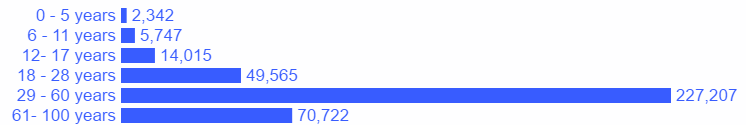
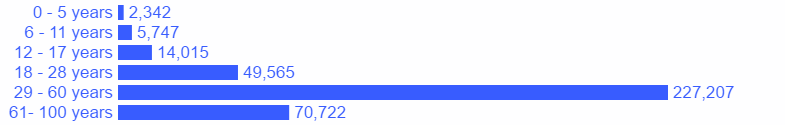
updated more accurate bars for each of the charts

Changed region(s): [[0.0, 0.048, 0.9866, 0.984]]

diff --git a/index.html b/index.html
@@ -31,7 +31,7 @@
       <div class="intro">
       <h1><b>Number of Threats, Kidnappings, and Homicides in Colombia (1984-2015)</b></h1>
       <p>The following graphs show data for three different types of crimes commited in Colombia from 1984-2015, and shows the total amount for each gender in the data set: female, male, and LGBTI. They are charts are grouped thematically and separted by gender to comparison.<br></p>
-      <p style="font-size: 11px">** The author is well aware that 1) the graphs would be better compared if laid side by side; 2) the length of the maxium value for each graph is the same length. He has not figured out how to adjust the bars to be relative with one another, nor how to paste them on the same page without overlaying an image; 3) 29-60 years and 61-100 years is a large age-range and therefore skews the data - In a future iteration, the author also hopes to fix these issues and plot the change in number of crimes commited by year for each gender. **</p>
+      <!-- <p style="font-size: 11px">** The author is well aware that 1) the graphs would be better compared if laid side by side; 2) the length of the maxium value for each graph is the same length. He has not figured out how to adjust the bars to be relative with one another, nor how to paste them on the same page without overlaying an image; 3) 29-60 years and 61-100 years is a large age-range and therefore skews the data - In a future iteration, the author also hopes to fix these issues and plot the change in number of crimes commited by year for each gender. **</p> -->
 
       <p style="font-size: 11px; text-align: right">eyw2109</p>
 

diff --git a/pages/index2.html b/pages/index2.html
@@ -31,7 +31,7 @@
       <div class="intro">
       <h1><b>Number of Threats, Kidnappings, and Homicides in Colombia (1984-2015)</b></h1>
       <p>The following graphs show data for three different types of crimes commited in Colombia from 1984-2015, and shows the total amount for each gender in the data set: female, male, and LGBTI. They are charts are grouped thematically and separted by gender to comparison.<br></p>
-      <p style="font-size: 11px">** The author is well aware that 1) the graphs would be better compared if laid side by side; 2) the length of the maxium value for each graph is the same length. He has not figured out how to adjust the bars to be relative with one another, nor how to paste them on the same page without overlaying an image; 3) 29-60 years and 61-100 years is a large age-range and therefore skews the data - In a future iteration, the author also hopes to fix these issues and plot the change in number of crimes commited by year for each gender. **</p>
+      <!-- <p style="font-size: 11px">** The author is well aware that 1) the graphs would be better compared if laid side by side; 2) the length of the maxium value for each graph is the same length. He has not figured out how to adjust the bars to be relative with one another, nor how to paste them on the same page without overlaying an image; 3) 29-60 years and 61-100 years is a large age-range and therefore skews the data - In a future iteration, the author also hopes to fix these issues and plot the change in number of crimes commited by year for each gender. **</p>-->
 
       <p style="font-size: 11px; text-align: right">eyw2109</p>
 

diff --git a/pages/index3.html b/pages/index3.html
@@ -31,7 +31,7 @@
       <div class="intro">
       <h1><b>Number of Threats, Kidnappings, and Homicides in Colombia (1984-2015)</b></h1>
       <p>The following graphs show data for three different types of crimes commited in Colombia from 1984-2015, and shows the total amount for each gender in the data set: female, male, and LGBTI. They are charts are grouped thematically and separted by gender to comparison.<br></p>
-      <p style="font-size: 11px">** The author is well aware that 1) the graphs would be better compared if laid side by side; 2) the length of the maxium value for each graph is the same length. He has not figured out how to adjust the bars to be relative with one another, nor how to paste them on the same page without overlaying an image; 3) 29-60 years and 61-100 years is a large age-range and therefore skews the data - In a future iteration, the author also hopes to fix these issues and plot the change in number of crimes commited by year for each gender. **</p>
+      <!-- <p style="font-size: 11px">** The author is well aware that 1) the graphs would be better compared if laid side by side; 2) the length of the maxium value for each graph is the same length. He has not figured out how to adjust the bars to be relative with one another, nor how to paste them on the same page without overlaying an image; 3) 29-60 years and 61-100 years is a large age-range and therefore skews the data - In a future iteration, the author also hopes to fix these issues and plot the change in number of crimes commited by year for each gender. **</p>-->
 
       <p style="font-size: 11px; text-align: right">eyw2109</p>
 

diff --git a/js/allthreatdata.js b/js/allthreatdata.js
@@ -1,0 +1,44 @@
+// ***** Global variables ***** //
+var allthreatedata;
+var maxTotal = 0;
+var maxLabel = 0;
+var maxLength = 550;
+
+// ***** Preload function ***** //
+function preload(){
+  allthreatedata = loadTable('../data/allthreatdata.csv', 'csv', 'header');
+  console.log('Done loading table...');
+}
+
+// ***** Setup function 1 ***** //
+function setup(){
+  createCanvas(800, 3000);
+  textSize(17);
+  console.log('Setup complete...');
+  print(allthreatedata.getRowCount() + ' rows loaded...');
+  print(allthreatedata.getColumnCount() + ' columns loaded...');
+  for (var i = 0; i < allthreatedata.getRowCount(); i++) {
+    maxTotal = max(allthreatedata.getNum(i, 'sumtotal'), maxTotal);
+    maxLabel = max(allthreatedata.getString(i, 'Age').length, maxLabel);
+  }
+  print('Maximum total is ' + maxTotal);
+  print('Maximum label length is ' + maxLabel);
+}
+
+// ***** Draw function 1 ***** //
+function draw(){
+    background(255);
+    fill(218, 255, 124);
+    noStroke();
+    textAlign(LEFT, TOP);
+    for (var i = 0; i < allthreatedata.getRowCount(); i++) {
+        var total = allthreatedata.getNum(i, 'sumtotal');
+        var length = map(total, 0, maxTotal, 0, maxLength);
+        rect(maxLabel * 10, 2 + 20*i, length, 15);
+        text(nfc(total, 0), maxLabel * 10 + length + 5, 20*i);
+    }
+    textAlign(RIGHT, TOP);
+    for (var i = 0; i < allthreatedata.getRowCount(); i++) {
+        text(allthreatedata.getString(i, 'Age'), maxLabel * 10 - 5, 20*i);
+    }
+}

diff --git a/js/alldata.js b/js/alldata.js
@@ -1,0 +1,44 @@
+// ***** Global variables ***** //
+var alldata;
+var maxTotal = 0;
+var maxLabel = 0;
+var maxLength = 550;
+
+// ***** Preload function ***** //
+function preload(){
+  alldata = loadTable('../data/colombiadata.csv', 'csv', 'header');
+  console.log('Done loading table...');
+}
+
+// ***** Setup function 1 ***** //
+function setup(){
+  createCanvas(800, 3000);
+  textSize(17);
+  console.log('Setup complete...');
+  print(alldata.getRowCount() + ' rows loaded...');
+  print(alldata.getColumnCount() + ' columns loaded...');
+  for (var i = 0; i < alldata.getRowCount(); i++) {
+    maxTotal = max(alldata.getNum(i, 'sumtotal'), maxTotal);
+    maxLabel = max(alldata.getString(i, 'Age').length, maxLabel);
+  }
+  print('Maximum total is ' + maxTotal);
+  print('Maximum label length is ' + maxLabel);
+}
+
+// ***** Draw function 1 ***** //
+function draw(){
+    background(255);
+    fill(30, 70, 255, 225);
+    noStroke();
+    textAlign(LEFT, TOP);
+    for (var i = 0; i < alldata.getRowCount(); i++) {
+        var total = alldata.getNum(i, 'sumtotal');
+        var length = map(total, 0, maxTotal, 0, maxLength);
+        rect(maxLabel * 10, 2 + 20*i, length, 15);
+        text(nfc(total, 0), maxLabel * 10 + length + 5, 20*i);
+    }
+    textAlign(RIGHT, TOP);
+    for (var i = 0; i < alldata.getRowCount(); i++) {
+        text(alldata.getString(i, 'Age'), maxLabel * 10 - 5, 20*i);
+    }
+}

diff --git a/pages/allthreatdata.html b/pages/allthreatdata.html
@@ -1,0 +1,29 @@
+<!DOCTYPE html>
+<html>
+  <head>
+    <title>Assignment 03</title>
+
+    <!-- Stylesheet link -->
+    <link rel="stylesheet" type="text/css" href="../css/site-specific.css">
+
+    <!-- Google fonts code -->
+    <link href="https://fonts.googleapis.com/css?family=Roboto+Condensed:300,400,700" rel="stylesheet">
+
+    <!-- Loading p5.js library -->
+    <script language="javascript" type="text/javascript" src="../libraries/p5.js"></script>
+
+    <!-- p5.js script -->
+    <script language="javascript" type="text/javascript" src="../js/allthreatdata.js"></script>
+
+  </head>
+  <body>
+    <div class="title">
+      <div>
+      <h1>All of the threat data<br>
+      </h1>
+      </div>
+
+
+    </div>
+  </body>
+</html>

diff --git a/pages/alldata.html b/pages/alldata.html
@@ -1,0 +1,29 @@
+<!DOCTYPE html>
+<html>
+  <head>
+    <title>Assignment 03</title>
+
+    <!-- Stylesheet link -->
+    <link rel="stylesheet" type="text/css" href="../css/site-specific.css">
+
+    <!-- Google fonts code -->
+    <link href="https://fonts.googleapis.com/css?family=Roboto+Condensed:300,400,700" rel="stylesheet">
+
+    <!-- Loading p5.js library -->
+    <script language="javascript" type="text/javascript" src="../libraries/p5.js"></script>
+
+    <!-- p5.js script -->
+    <script language="javascript" type="text/javascript" src="../js/alldata.js"></script>
+
+  </head>
+  <body>
+    <div class="title">
+      <div>
+      <h1>All of the data<br>
+      </h1>
+      </div>
+
+
+    </div>
+  </body>
+</html>
